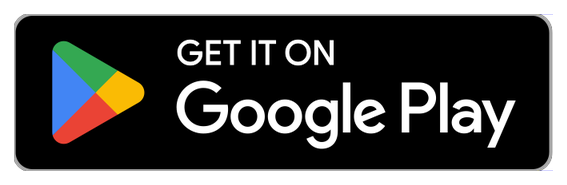
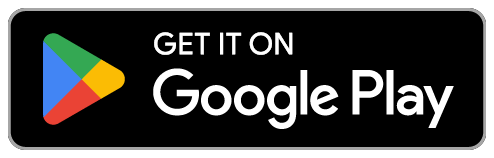
Swap in Neeraj's preferred badge artwork and clarify the web app works now
Both badges are now the images Neeraj supplied directly: a standard
Google Play badge, and Apple's "Coming Soon to the App Store" variant
(which already states its own status, so the separate "Coming soon" tag
this section drew on top of the badges before is gone — redundant now).

Also rewrote the section's supporting line to lead with what's actually
true today: SyncUp works right now in the browser, installable without
either store. The "coming soon" framing is about the native wrapper, not
about SyncUp being unusable in the meantime.

Claude-Session: https://claude.ai/code/session_01AiURLZrTSYhWYivLepZyrp

diff --git a/src/components/AboutView.tsx b/src/components/AboutView.tsx
@@ -312,16 +312,17 @@ export function AboutView() {
             </h2>
           </motion.div>
           <motion.p variants={fadeUp} className="mx-auto mt-3 max-w-sm text-foreground-muted">
-            SyncUp already installs like an app straight from your browser. A native release on
-            the app stores is next.
+            You can use SyncUp right now, free, straight from your browser — install it like an
+            app in two taps, no store needed. Native App Store and Google Play versions are on
+            the way.
           </motion.p>
 
           <motion.div
             variants={fadeUp}
-            className="mx-auto mt-8 flex max-w-sm flex-col items-center gap-7 sm:flex-row sm:justify-center sm:gap-10 lg:max-w-md"
+            className="mx-auto mt-8 flex max-w-sm flex-col items-center gap-5 sm:flex-row sm:justify-center sm:gap-6 lg:max-w-md"
           >
-            <StoreBadge src="/badges/app-store.png" alt="Download on the App Store" width={504} height={185} />
-            <StoreBadge src="/badges/google-play.png" alt="Get it on Google Play" width={567} height={185} />
+            <StoreBadge src="/badges/app-store.png" alt="Coming soon to the App Store" width={700} height={225} />
+            <StoreBadge src="/badges/google-play.png" alt="Get it on Google Play" width={494} height={158} />
           </motion.div>
         </div>
       </motion.section>
@@ -414,6 +415,9 @@ function CheckIcon() {
 // guideline artwork), shown unmodified — "Coming soon" is our own label
 // sitting above each one, never drawn onto the badge itself, since both
 // Apple's and Google's brand guidelines require the mark to stay as-is.
+// Each badge image is self-describing (the Apple one already says "Coming
+// Soon to the App Store" baked into the artwork, and the surrounding
+// paragraph covers Google Play) — no extra label wrapper needed here.
 function StoreBadge({
   src,
   alt,
@@ -425,12 +429,5 @@ function StoreBadge({
   width: number;
   height: number;
 }) {
-  return (
-    <div aria-disabled="true" className="flex flex-col items-center gap-2">
-      <span className="rounded-pill bg-background px-3 py-1 text-[10px] font-semibold uppercase tracking-wide text-foreground-muted shadow-chip">
-        Coming soon
-      </span>
-      <Image src={src} alt={alt} width={width} height={height} className="h-[52px] w-auto opacity-90" />
-    </div>
-  );
+  return <Image src={src} alt={alt} width={width} height={height} className="h-[56px] w-auto" />;
 }
